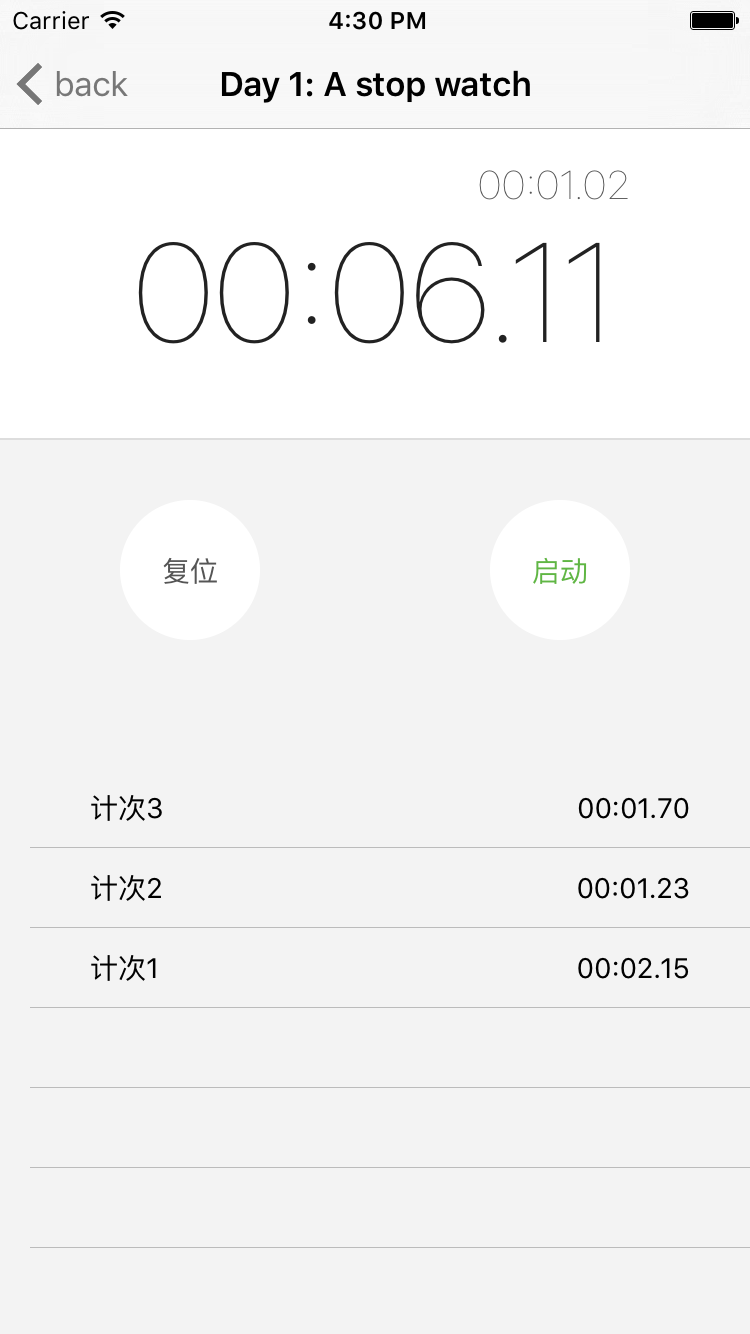
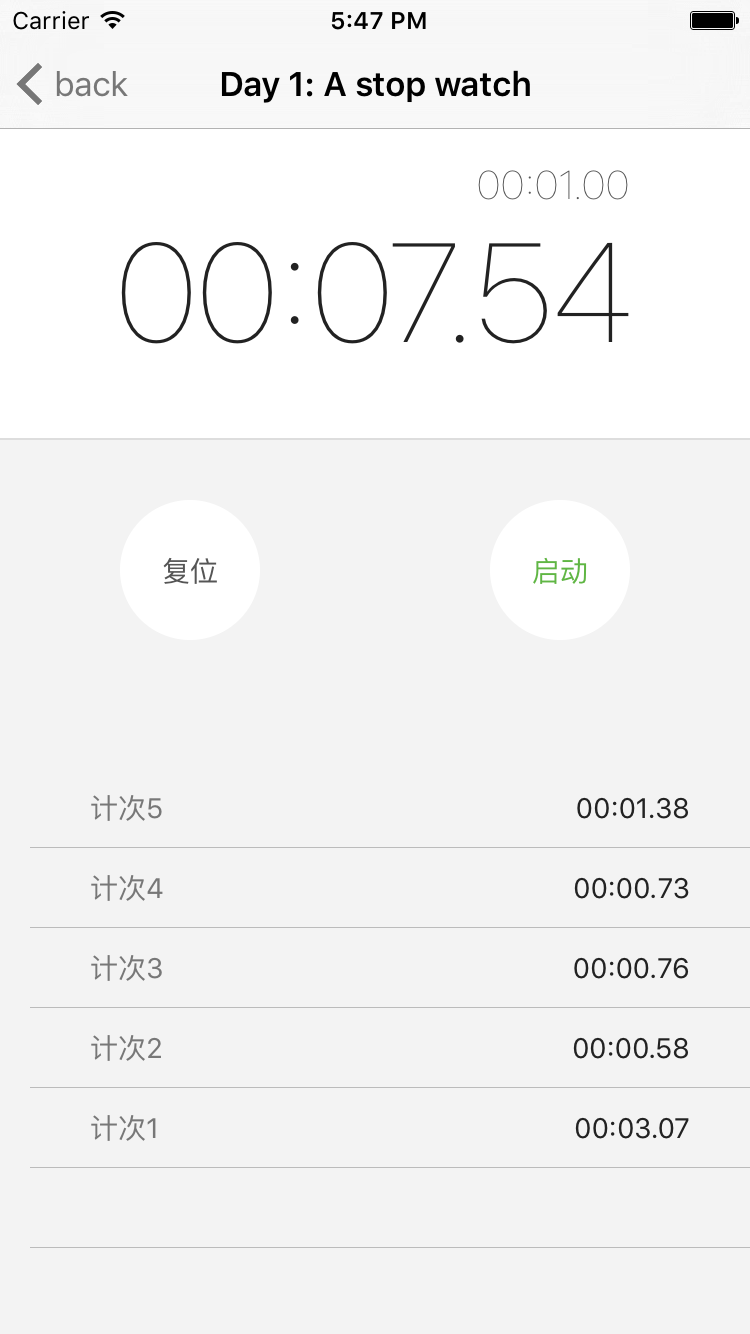
update readme

diff --git a/view/day1.js b/view/day1.js
@@ -35,7 +35,8 @@ var WatchControl = React.createClass({
 			watchOn: false, 
 			startBtnText: "启动",
 			startBtnColor: "#60B644",
-			stopBtnText: "计次"
+			stopBtnText: "计次",
+			underlayColor:"#fff"
 		}
 	},
 	_startWatch: function () {
@@ -47,14 +48,16 @@ var WatchControl = React.createClass({
 			this.setState({
 				startBtnText: "停止",
 				startBtnColor: "#ff0044",
-				stopBtnText: "计次"
+				stopBtnText: "计次",
+				underlayColor:"#eee"
 			})
 		}else{
 			this.props.stopWatch()
 			this.setState({
 				startBtnText: "启动",
 				startBtnColor: "#60B644",
-				stopBtnText: "复位"
+				stopBtnText: "复位",
+				underlayColor:"#eee"
 			})
 		}	
 	},
@@ -72,7 +75,7 @@ var WatchControl = React.createClass({
 		return(
 			<View style={styles.watchControlContainer}>
 				<View style={{flex:1,alignItems:"flex-start"}}>
-					<TouchableHighlight style={styles.btnStop} underlayColor="#eee" onPress={this._addRecord}>
+					<TouchableHighlight style={styles.btnStop} underlayColor={this.state.underlayColor} onPress={this._addRecord}>
 			        	<Text style={styles.btnStopText}>{this.state.stopBtnText}</Text>
 			        </TouchableHighlight>
 			    </View>
@@ -190,12 +193,15 @@ var Day1 =  React.createClass({
 	},
 	_clearRecord: function () {
 		this.setState({
+		  	stopWatch: false,
+		  	resetWatch: true,
+		  	intialTime: 0,
+		  	currentTime:0,
+		  	recordTime:0,
+		  	timeAccumulation:0,
 		  	totalTime: "00:00.00",
 			sectionTime: "00:00.00",
-			stopWatch: false,
 		  	recordCounter: 0,
-		  	resetWatch: true,
-		  	countingTime: 0,
 		  	record:[{title:"",time:""},
 			  		{title:"",time:""},
 			  		{title:"",time:""},
@@ -291,13 +297,15 @@ const styles = StyleSheet.create({
 		backgroundColor:"transparent",
 		flex:1,
 		textAlign:"left",
-		paddingLeft:20
+		paddingLeft:20,
+		color:"#777"
 	},
 	recordItemTime:{
 		backgroundColor:"transparent",
 		flex:1,
 		textAlign:"right",
-		paddingRight:20
+		paddingRight:20,
+		color:"#222"
 	}
 });
 

diff --git a/README.md b/README.md
@@ -9,4 +9,9 @@ This project is inspired by
 
 30DaysofSwift (https://github.com/allenwong/30DaysofSwift)
 
+## Day 1
+An IOS-system-like stop watch.
+Fully functioned as the system app.
+<img src="https://raw.githubusercontent.com/fangwei716/ThirtyDaysOfReactNative/master/screenshot/day1.png" width="300"/>
+
 
